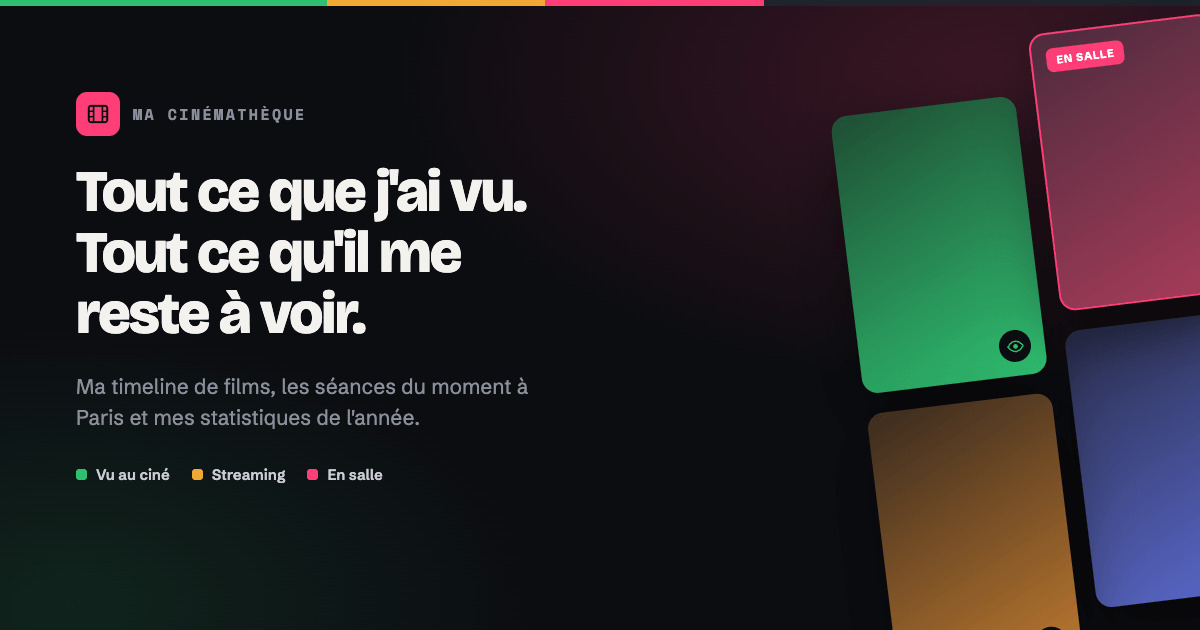
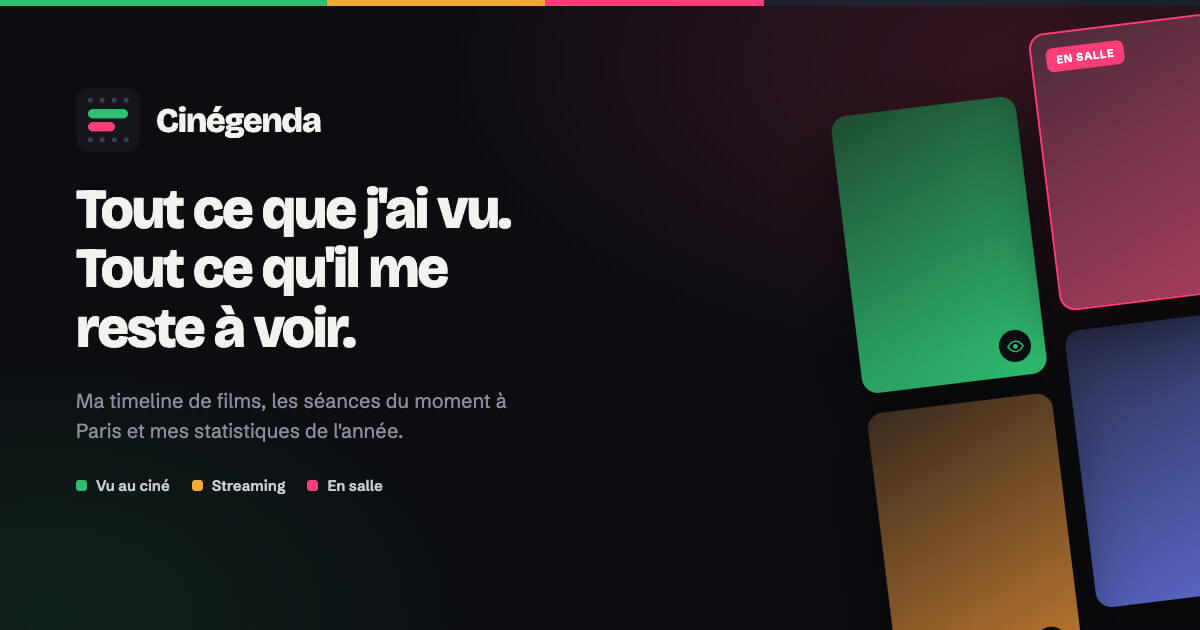
chore(brand): renommer l'application en « Cinégenda »

diff --git a/app/app.vue b/app/app.vue
@@ -11,7 +11,7 @@ useHead({
     htmlAttrs: {
         lang: 'fr'
     },
-    titleTemplate: (title) => title ? `${title} — CinéCal` : 'CinéCal',
+    titleTemplate: (title) => title ? `${title} — Cinégenda` : 'Cinégenda',
     link: [
         {rel: 'icon', type: 'image/png', sizes: '96x96', href: '/favicon/favicon-96x96.png'},
         {rel: 'icon', type: 'image/svg+xml', href: '/favicon/favicon.svg'},
@@ -25,11 +25,11 @@ useHead({
         {name: 'theme-color', content: '#ec008b'},
         {name: 'description', content: 'Mon calendrier de films perso — suis tes sorties ciné et séries au fil des mois.'},
         {property: 'og:type', content: 'website'},
-        {property: 'og:title', content: 'CinéCal'},
+        {property: 'og:title', content: 'Cinégenda'},
         {property: 'og:description', content: 'Mon calendrier de films perso — suis tes sorties ciné et séries au fil des mois.'},
         {property: 'og:image', content: `${baseUrl}/og-image.jpg`},
         {name: 'twitter:card', content: 'summary_large_image'},
-        {name: 'twitter:title', content: 'CinéCal'},
+        {name: 'twitter:title', content: 'Cinégenda'},
         {name: 'twitter:description', content: 'Mon calendrier de films perso — suis tes sorties ciné et séries au fil des mois.'},
         {name: 'twitter:image', content: `${baseUrl}/og-image.jpg`},
     ]

diff --git a/app/layouts/default.vue b/app/layouts/default.vue
@@ -108,7 +108,7 @@ onBeforeUnmount(() => {
         <!-- En-tête mobile : titre + pastille année (vues de la liste seulement) + bande d'onglets -->
         <div class="shell-mobilehead">
             <div class="top">
-                <div class="brand">Ma cinémathèque</div>
+                <div class="brand">Cinégenda</div>
                 <button class="year-pill" :class="{ '-hidden': !isLibrary }" type="button"
                         aria-label="Choisir l'année" aria-haspopup="true" :aria-expanded="mobileYearMenu"
                         @click="mobileYearMenu = !mobileYearMenu">

diff --git a/server/api/movies/[id]/letterboxd.js b/server/api/movies/[id]/letterboxd.js
@@ -13,7 +13,7 @@ const fetchLetterboxdFilm = defineCachedFunction(async (id) => {
     try {
         // Timeout dur : une fiche lente ne doit pas laisser la connexion sortante ouverte.
         const html = await $fetch(`https://letterboxd.com/tmdb/${id}/`, {
-            headers: { 'User-Agent': 'Mozilla/5.0 (compatible; cine-calendar/1.0)' },
+            headers: { 'User-Agent': 'Mozilla/5.0 (compatible; cinegenda/1.0)' },
             signal: AbortSignal.timeout(8000),
         });
 

diff --git a/server/utils/allocine.js b/server/utils/allocine.js
@@ -22,7 +22,7 @@ const ALLOCINE_ORIGIN = 'https://www.allocine.fr';
 // première brique d'un contournement, et n'apporte rien : les quatre sources du projet (Allociné,
 // UGC, Dulac, MK2) répondent exactement pareil avec ou sans (vérifié le 15/08/2026, même statut et
 // même charge utile à l'octet près).
-const USER_AGENT = 'cine-calendar/1.0';
+const USER_AGENT = 'cinegenda/1.0';
 const TIMEOUT = 8000;
 const SHOWTIME_CONCURRENCY = 4;
 

diff --git a/server/utils/dulac.js b/server/utils/dulac.js
@@ -19,7 +19,7 @@ import { normalize, escapeRe, fold, truncateDetail, isEventHeadline } from './ex
 
 const DULAC_ORIGIN = 'https://www.dulaccinemas.com';
 // ⚠ User-Agent **honnête**, jamais une chaîne de navigateur — cf. `allocine.js`.
-const USER_AGENT = 'cine-calendar/1.0';
+const USER_AGENT = 'cinegenda/1.0';
 const TIMEOUT = 8000;
 
 // Le sitemap ne bouge qu'au rythme des publications de Dulac, et une vague de relevés enchaîne

diff --git a/server/utils/mk2.js b/server/utils/mk2.js
@@ -18,7 +18,7 @@ import { normalize, sentences, truncateDetail, metaContent, mentionsDate, isEven
 
 const MK2_ORIGIN = 'https://www.mk2.com';
 // ⚠ User-Agent **honnête**, jamais une chaîne de navigateur — cf. `allocine.js`.
-const USER_AGENT = 'cine-calendar/1.0';
+const USER_AGENT = 'cinegenda/1.0';
 const TIMEOUT = 8000;
 
 // Cache mémoire d'instance, opportuniste (cf. `dulac.js`).

diff --git a/server/utils/ugc.js b/server/utils/ugc.js
@@ -13,7 +13,7 @@ import { normalize } from './exhibitorText.js';
 
 const UGC_ORIGIN = 'https://www.ugc.fr';
 // ⚠ User-Agent **honnête**, jamais une chaîne de navigateur — cf. `allocine.js`.
-const USER_AGENT = 'cine-calendar/1.0';
+const USER_AGENT = 'cinegenda/1.0';
 const TIMEOUT = 8000;
 
 // Les 11 salles UGC de Paris intra-muros, relevées dans leur propre liste

diff --git a/app/components/nav/SideNav.vue b/app/components/nav/SideNav.vue
@@ -55,7 +55,7 @@ const favoriteCinemas = computed(() => Object.values(cinemas.value ?? {})
 
 <template>
     <aside class="side-nav scr">
-        <div class="brand">Ma cinémathèque</div>
+        <div class="brand">Cinégenda</div>
 
         <NavViewTabs :view-mode="viewMode" :event-count="nbEvents"
                      @select-view="emits('select-view', $event)" />
